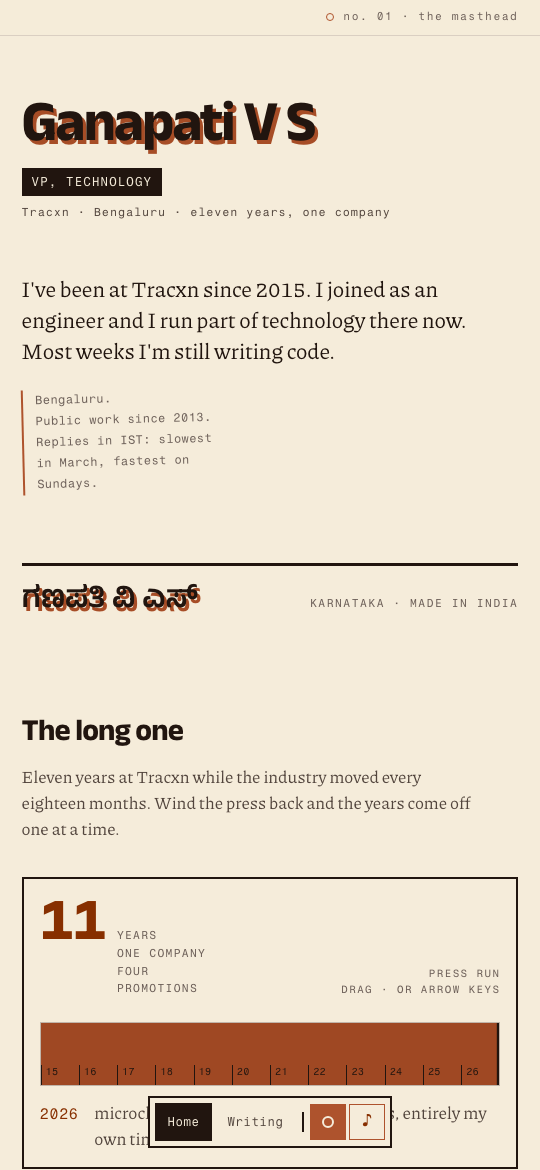
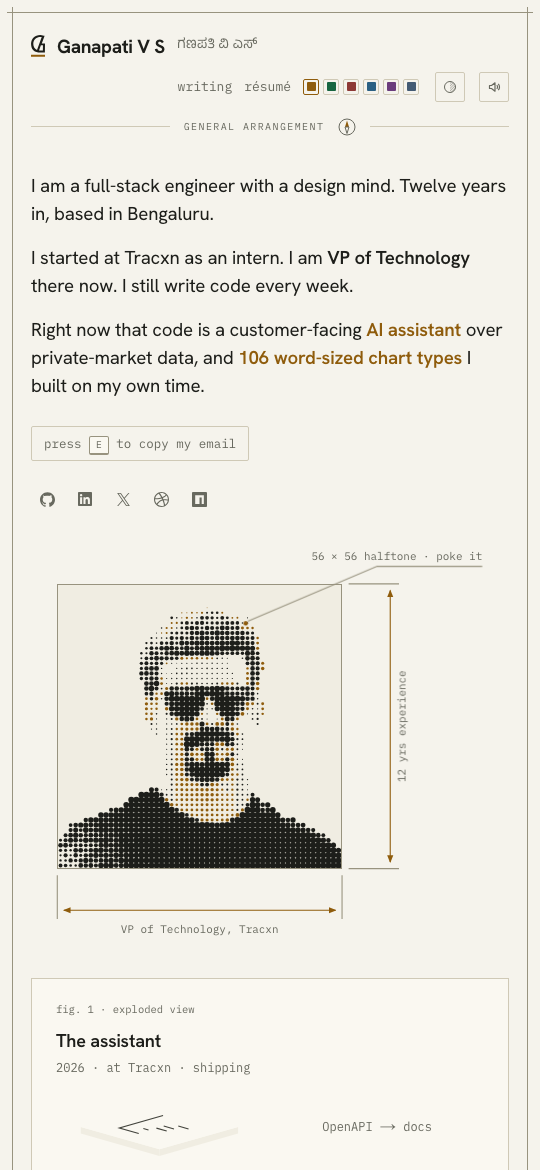
Legible glyphs, complete click logging, regenerated brand assets
- The five exploded-view symbols are redrawn for the projection they sit
  in rather than in spite of it. The brace pair closed up into a smile
  once foreshortened; it is a ruled page now. The router's fan is
  narrower and the chip's pins clear its body, both because the
  isometric widens everything horizontally. Stroke moved up a step so
  they read against the slab.
- Every remaining link that was worth naming now carries a
  data-analytics id: the résumé's contacts and repo links, the 404 and
  error routes, and the specimen tray's re-draw. No new event names, as
  the analytics contract requires.
- favicon.ico and both PWA screenshots regenerated: the mark's bar is
  drafting amber now, and the install dialog was previewing a design
  that no longer exists.
- Dropped @fontsource/anek-latin and @fontsource/fragment-mono. The OG
  renderer reads Hanken Grotesk and IBM Plex Mono instead.
- The drawing title drops the name and the year below 640px rather than
  ellipsising the name in half.

diff --git a/components/schematic/Exploded.tsx b/components/schematic/Exploded.tsx
@@ -21,26 +21,22 @@ const PARTS: { name: string; note: string; glyph: string[] }[] = [
   {
     name: "OpenAPI → docs",
     note: "The API documentation portal writes itself from the OpenAPI spec, and the assistant lives inside it. One source, two readers: a person and a model.",
-    // A page with a brace pair on it. Braces are what a spec looks like, and a
-    // page is what comes out, so the symbol is the sentence.
-    glyph: [
-      "M-11 -13 H5 L11 -7 V13 H-11 Z",
-      "M5 -13 V-7 H11",
-      "M-5 -3 Q-8 -3 -8 0 Q-8 3 -5 3",
-      "M4 -3 Q7 -3 7 0 Q7 3 4 3",
-      "M-1 0 H1",
-    ],
+    // A page with a folded corner and ruled lines. The brace pair that was
+    // here first was more literally "a spec", and foreshortened into the slab
+    // the two braces closed up into something that read as a smile.
+    glyph: ["M-10 -12 H4 L10 -6 V12 H-10 Z", "M4 -12 V-6 H10", "M-6 -2 H6", "M-6 2 H6", "M-6 6 H0"],
   },
   {
     name: "model router",
     note: "One question in, one model out. The router reads what is being asked and sends it to the model that should answer it, so nothing costs more than it needs to.",
-    // A multiplexer: one line in, a decision node, three lines out.
+    // A multiplexer: one line in, a decision node, three lines out. The fan is
+    // kept narrow because the projection widens it.
     glyph: [
-      "M-14 0 H-5",
-      "M-5 0 A3 3 0 1 0 1 0 A3 3 0 1 0 -5 0",
-      "M1 0 H5 L14 -9",
-      "M5 0 H14",
-      "M1 0 H5 L14 9",
+      "M-14 0 H-4",
+      "M-4 0 A3 3 0 1 0 2 0 A3 3 0 1 0 -4 0",
+      "M2 0 H6 L14 -6",
+      "M6 0 H14",
+      "M2 0 H6 L14 6",
     ],
   },
   {
@@ -49,10 +45,11 @@ const PARTS: { name: string; note: string; glyph: string[] }[] = [
     // An integrated circuit: a body with pins. A skill is a part you can pull
     // out and test on its own, which is the whole point of the layer.
     glyph: [
-      "M-9 -8 H9 V8 H-9 Z",
-      "M-9 -4 H-14 M-9 0 H-14 M-9 4 H-14",
-      "M9 -4 H14 M9 0 H14 M9 4 H14",
-      "M-4 -3 H4 M-4 1 H1",
+      "M-8 -7 H8 V7 H-8 Z",
+      "M-8 -3.5 H-13 M-8 0 H-13 M-8 3.5 H-13",
+      "M8 -3.5 H13 M8 0 H13 M8 3.5 H13",
+      "M-4 -2 H4",
+      "M-4 2 H1",
     ],
   },
   {

diff --git a/app/(press)/resume/page.tsx b/app/(press)/resume/page.tsx
@@ -53,13 +53,19 @@ export default async function ResumePage() {
           </div>
           <div className="cv-contact">
             <div>
-              <a href={`mailto:${identity.email}`}>{identity.email}</a>
+              <a href={`mailto:${identity.email}`} data-analytics="mail:resume">
+                {identity.email}
+              </a>
             </div>
             <div>
-              <a href={SITE_URL}>meetguns.com</a>
+              <a href={SITE_URL} data-analytics="cta:resume.site">
+                meetguns.com
+              </a>
             </div>
             <div>
-              <a href="https://github.com/ganapativs">github.com/ganapativs</a>
+              <a href="https://github.com/ganapativs" data-analytics="cta:resume.github">
+                github.com/ganapativs
+              </a>
             </div>
           </div>
         </header>
@@ -115,7 +121,9 @@ export default async function ResumePage() {
                 return (
                   <div key={f.name} className="cv-item">
                     <div className="cv-item-name">
-                      <a href={f.repo}>{f.name}</a>
+                      <a href={f.repo} data-analytics={`cta:resume.oss.${f.name}`}>
+                        {f.name}
+                      </a>
                       {n >= STAR_FLOOR ? ` · ${n.toLocaleString("en-US")}★` : ""}
                     </div>
                     <div className="cv-item-note">{f.blurb}</div>
@@ -124,7 +132,12 @@ export default async function ResumePage() {
               })}
               <div className="cv-item">
                 <div className="cv-item-name">
-                  <a href="https://github.com/ganapativs?tab=repositories">and the rest</a>
+                  <a
+                    href="https://github.com/ganapativs?tab=repositories"
+                    data-analytics="cta:resume.all-repos"
+                  >
+                    and the rest
+                  </a>
                 </div>
                 <div className="cv-item-note">
                   55 public repos, 15 npm packages, {stars.total.toLocaleString("en-US")} stars

diff --git a/styles/press/essay.css b/styles/press/essay.css
@@ -169,15 +169,20 @@
    ground and its own frame. Reading a thousand words through a drifting grid is
    the kind of thing that looks good in a screenshot and is miserable to do. */
 .essay {
-  max-width: calc(var(--w-essay) + 96px);
+  max-width: 940px;
   margin: 44px auto 0;
-  padding: clamp(28px, 4vw, 48px);
+  padding: clamp(24px, 4vw, 52px);
   background: var(--raise);
   border: 1px solid var(--rule);
 }
-.essay > * {
+/* Prose caps at the reading measure. Everything that is not prose, which is the
+   cover and the library demos, gets the whole plate. */
+.essay > *,
+.prose > * {
   max-width: var(--w-essay);
-  margin-inline: auto;
+}
+.essay > .essay-cover {
+  max-width: 100%;
 }
 .essay-title {
   margin: 0;
@@ -219,15 +224,7 @@
   display: block;
   object-fit: cover;
 }
-/* Breakout past the measure on roomy screens — the cover is the one element
-   allowed to be wider than the text column. */
-@media (min-width: 1000px) {
-  .essay-cover {
-    width: min(960px, calc(100vw - 2 * var(--gutter)));
-    margin-left: 50%;
-    transform: translateX(-50%);
-  }
-}
+
 /* The standfirst. Set off by a rule in the ink rather than by italics: there
    is one Latin face on this sheet and it has no italic cut, so a synthesised
    oblique would be the only faked thing in the type system. */

diff --git a/styles/press/microcharts-demos.css b/styles/press/microcharts-demos.css
@@ -583,13 +583,14 @@
   --r-xl: var(--r-block);
   --r-pill: var(--r-chip);
 }
+/* The demos use the whole plate, not the reading measure. They are laid out for
+   a wider column than 68ch and drop a tile from every row inside one.
+
+   They used to break out past the plate with `margin-left: 50%` and a fixed
+   880px width, which was correct when the essay sat directly on the page. Now
+   that it sits on its own plate, that overflowed the plate's edges by 60px on
+   each side. Filling the plate is the same intent without the arithmetic. */
 .prose > :is(.mcx-wall, .mcx-kpi, .mcx-ops, .mcx-console, .mcx-stream, .mcx-a11y) {
-  max-width: none;
-}
-@media (min-width: 1000px) {
-  .prose > :is(.mcx-wall, .mcx-kpi, .mcx-ops, .mcx-console, .mcx-stream, .mcx-a11y) {
-    width: min(880px, calc(100vw - 2 * var(--gutter)));
-    margin-left: 50%;
-    transform: translateX(-50%);
-  }
+  max-width: 100%;
+  width: 100%;
 }

diff --git a/styles/press/chrome.css b/styles/press/chrome.css
@@ -630,16 +630,6 @@
 .soc:active {
   transform: scale(0.92);
 }
-/* LinkedIn has no mark in the icon set the others come from, and inventing one
-   would be the only drawn thing on the page that is not real. It gets its
-   handle instead, which says more anyway. */
-.soc-pill {
-  width: auto;
-  padding: 0 8px;
-  font-family: var(--f-mono);
-  font-size: 11px;
-  letter-spacing: 0.02em;
-}
 
 /* ---- footer · the title block -------------------------------------------- */
 
@@ -783,6 +773,11 @@
   .hd-nav {
     flex-wrap: wrap;
     gap: 12px;
+  }
+  /* The title line loses the name and the year on a phone. All three fit only
+     by being ellipsised, and half a name is worse than none. */
+  .hd-title-full {
+    display: none;
   }
   .tb-cell {
     padding: 10px 12px;

diff --git a/app/not-found.tsx b/app/not-found.tsx
@@ -20,9 +20,15 @@ export default function NotFound() {
           one of these.
         </p>
         <div className="doc-links">
-          <Link href="/">home</Link>
-          <Link href="/blog">writing</Link>
-          <Link href="/resume">résumé</Link>
+          <Link href="/" data-analytics="nav:404.home">
+            home
+          </Link>
+          <Link href="/blog" data-analytics="nav:404.writing">
+            writing
+          </Link>
+          <Link href="/resume" data-analytics="nav:404.resume">
+            résumé
+          </Link>
         </div>
       </main>
     </Sheet>

diff --git a/app/error.tsx b/app/error.tsx
@@ -27,8 +27,12 @@ export default function Error({
           <button type="button" onClick={() => unstable_retry()}>
             draw it again
           </button>
-          <Link href="/">home</Link>
-          <Link href="/blog">writing</Link>
+          <Link href="/" data-analytics="nav:error.home">
+            home
+          </Link>
+          <Link href="/blog" data-analytics="nav:error.writing">
+            writing
+          </Link>
         </div>
       </main>
     </Sheet>

diff --git a/app/(press)/blog/[slug]/not-found.tsx b/app/(press)/blog/[slug]/not-found.tsx
@@ -14,8 +14,12 @@ export default function PostNotFound() {
         The index has everything that is actually published.
       </p>
       <div className="doc-links">
-        <Link href="/blog">all writing</Link>
-        <Link href="/">home</Link>
+        <Link href="/blog" data-analytics="nav:404.writing">
+          all writing
+        </Link>
+        <Link href="/" data-analytics="nav:404.home">
+          home
+        </Link>
       </div>
     </section>
   );

diff --git a/app/(press)/content.ts b/app/(press)/content.ts
@@ -13,7 +13,9 @@ import { flagships, skills } from "@/lib/resume";
 
 const stars = (name: string) => flagships.find((f) => f.name === name)?.stars ?? 0;
 
-export const BTTN_STARS = stars("bttn.css");
+// Read from lib/resume rather than typed here, so the parts list and the CV
+// cannot disagree about how many stars bttn.css has.
+const BTTN_STARS = stars("bttn.css");
 
 /* ---- fig. 5 · the career, dimensioned ----------------------------------- */
 

diff --git a/styles/press/home.css b/styles/press/home.css
@@ -218,8 +218,8 @@
    isometric as the slab. vector-effect keeps it a 1px line at any scale, so it
    reads as printed on the surface rather than as an icon dropped over it. */
 .xp .slab .glyph path {
-  stroke: var(--ink-3);
-  stroke-width: 1;
+  stroke: var(--ink-2);
+  stroke-width: 1.15;
   fill: none;
   vector-effect: non-scaling-stroke;
   transition: stroke var(--dur-fast) var(--ease-out);

diff --git a/components/schematic/Header.tsx b/components/schematic/Header.tsx
@@ -168,7 +168,8 @@ export function SchematicHeader() {
 
       <div className="hd-rule">
         <span className="hd-title">
-          {drawingTitle(pathname)} · {identity.name} · 2026
+          {drawingTitle(pathname)}
+          <span className="hd-title-full"> · {identity.name} · 2026</span>
         </span>
         <NorthArrow />
       </div>
